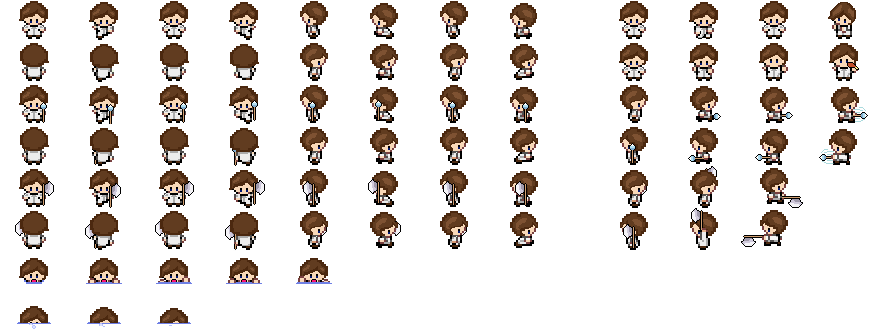
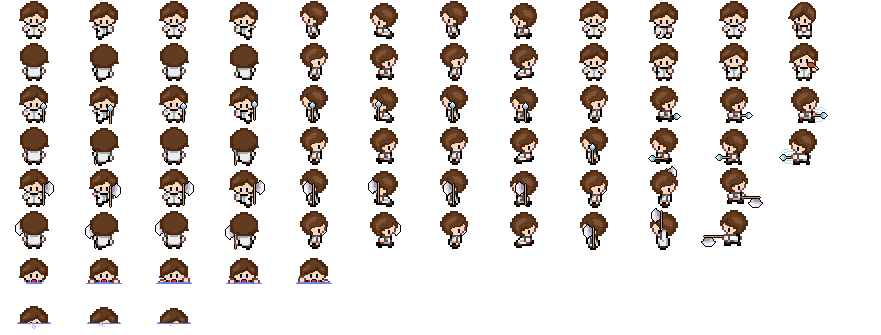
Proto 1.2.21
Fixed Sprite Sheet Myself. Some other irrelevant edits.

Changed region(s): [[0.6436, 0.0, 0.9807, 0.7463]]

diff --git a/Daniel WorkSpace/Experimental/player.js b/Daniel WorkSpace/Experimental/player.js
@@ -103,12 +103,12 @@ Player.prototype.update = function(ifs){
         this.animationIndex = this.walkDown;
     }
     if (this.inputVars[DIRECTIONS.LEFT]) {
-        this.x -= this.speed * this.speedMod;
-        this.animationIndex = this.walkLeft;
+        //this.x -= this.speed * this.speedMod;
+        this.animationIndex = this.pickUp;
     }
     if (this.inputVars[DIRECTIONS.RIGHT]) {
-        this.x += this.speed * this.speedMod;
-        this.animationIndex = this.walkRight;
+        //this.x += this.speed * this.speedMod;
+        this.animationIndex = this.eatFood;
     }
     
     //Player Position Validation

diff --git a/Daniel WorkSpace/FoliageTestingGrounds/player.js b/Daniel WorkSpace/FoliageTestingGrounds/player.js
@@ -103,12 +103,12 @@ Player.prototype.update = function(ifs){
         this.animationIndex = this.walkDown;
     }
     if (this.inputVars[DIRECTIONS.LEFT]) {
-        this.x -= this.speed * this.speedMod;
-        this.animationIndex = this.walkLeft;
+        //this.x -= this.speed * this.speedMod;
+        this.animationIndex = this.pickUp;
     }
     if (this.inputVars[DIRECTIONS.RIGHT]) {
-        this.x += this.speed * this.speedMod;
-        this.animationIndex = this.walkRight;
+        //this.x += this.speed * this.speedMod;
+        this.animationIndex = this.eatFood;
     }
     
     //Player Position Validation

diff --git a/Daniel WorkSpace/Experimental/foliage.js b/Daniel WorkSpace/Experimental/foliage.js
@@ -1,0 +1,10 @@
+// Daniel Luna
+//-----------------------------------------------------
+// GUI / Interface
+//-----------------------------------------------------
+
+var Bush = function(pos) {
+    this.x = pos.x;
+    this.y = pos.y;
+    this.spr = new Sprite();
+}; 

diff --git a/Daniel WorkSpace/Experimental/mainGameInterface.js b/Daniel WorkSpace/Experimental/mainGameInterface.js
@@ -10,7 +10,7 @@ var PlayerIndex;
 mainGame.init = function() {
     this.id = InterfaceStack.push(this);
     
-    SeaLevelRise = 0.01;
+    SeaLevelRise = 0.001;
     var playerStartingPos = {x: 400, y: 300};
     
     //Creating Objects

diff --git a/Daniel WorkSpace/FoliageTestingGrounds/mainGameInterface.js b/Daniel WorkSpace/FoliageTestingGrounds/mainGameInterface.js
@@ -10,7 +10,7 @@ var PlayerIndex;
 mainGame.init = function() {
     this.id = InterfaceStack.push(this);
     
-    SeaLevelRise = 0.01;
+    SeaLevelRise = 0.001;
     var playerStartingPos = {x: 400, y: 300};
     
     //Creating Objects
